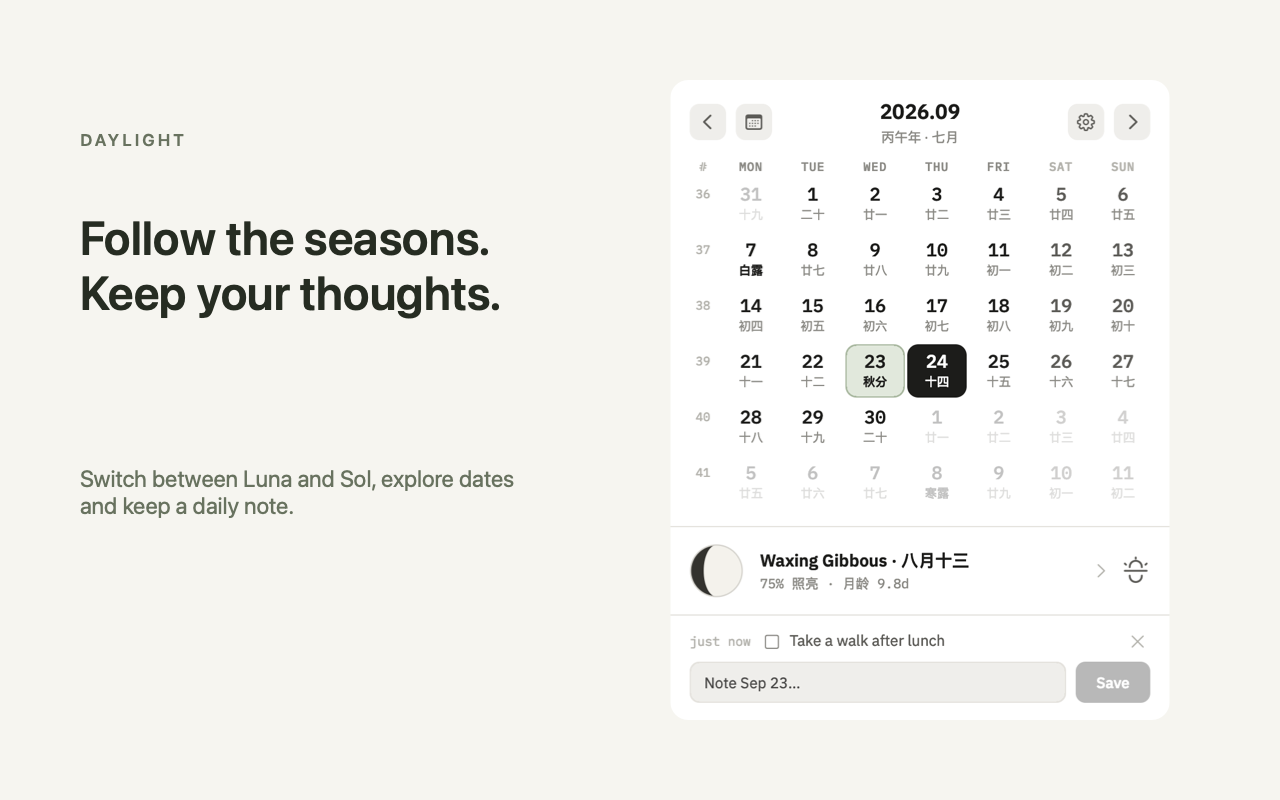
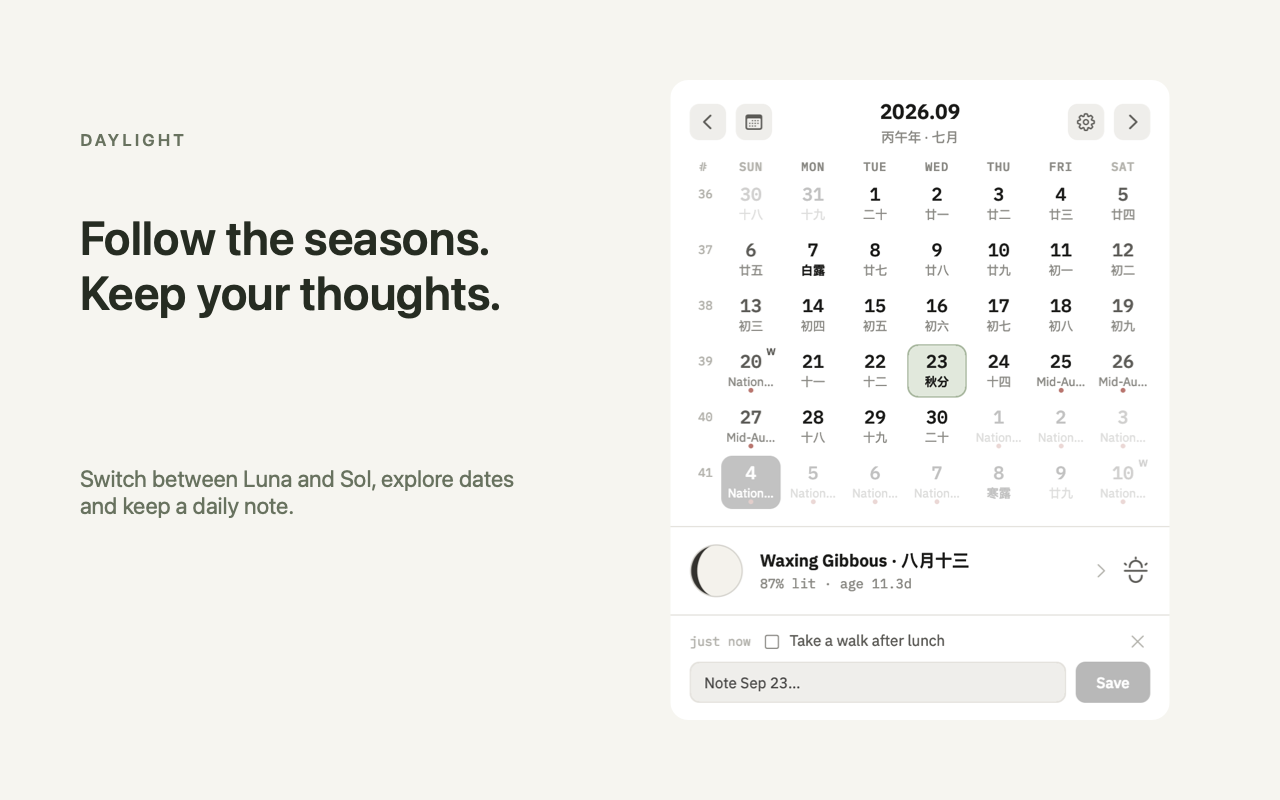
Update privacy policy, store listing and screenshots for review
The privacy policy now states that the 3D moon caches an approximate
location for up to 7 days, how to revoke access, that holiday feeds
refresh daily or weekly after subscribing, and how holidays.mings.work
is hosted. The listing drops the unmatched "reminder" keyword and price
wording, lists Traditional Chinese, and gives reviewers the path to each
permission and network feature. Screenshots are regenerated with the
corrected moon phase and translated holiday names.

diff --git a/apps/site/th/privacy.html b/apps/site/th/privacy.html
@@ -52,7 +52,7 @@
           <h1 class="section__title">Daylight ไม่เก็บข้อมูลของคุณ</h1>
           <p class="section__lead">ไม่มีบัญชีผู้ใช้ ไม่มีการเก็บสถิติ และไม่มีเซิร์ฟเวอร์ของเราที่รับสิ่งที่คุณเขียน หน้านี้ระบุชัดเจนว่าเก็บอะไร ไว้ที่ไหน และอะไรออกจากเครื่องของคุณบ้าง</p>
         </header>
-        <p class="prose__updated">อัปเดตล่าสุด 2026-09-24</p>
+        <p class="prose__updated">อัปเดตล่าสุด 2026-10-04</p>
         <div class="prose">
 <h2>สรุปสั้น ๆ</h2>
 <p>Daylight ไม่เก็บข้อมูลใด ๆ สิ่งที่คุณเขียนจะไม่ถูกส่งมาให้เรา เพราะไม่มีที่ให้ส่ง เราไม่มีเซิร์ฟเวอร์ที่รับข้อมูลผู้ใช้เลย</p>
@@ -60,18 +60,19 @@
 <h2>เก็บอะไร และเก็บไว้ที่ไหน</h2>
 <p>ทุกอย่างที่ Daylight เก็บ อยู่ในเครื่องของคุณเอง หรือในบัญชีเบราว์เซอร์หรือ Apple ของคุณเอง</p>
 <p><strong>ส่วนขยายเบราว์เซอร์</strong> การตั้งค่าของคุณ — ภาษา ธีม ประเภทปฏิทิน การแสดงปฏิทินจันทรคติและเลขสัปดาห์ และปฏิทินวันหยุดที่คุณสมัคร — เก็บผ่านระบบซิงค์ส่วนขยายของเบราว์เซอร์เอง หากคุณเปิดการซิงค์โปรไฟล์ไว้ ค่าเหล่านี้จะตามโปรไฟล์คุณไป ซึ่งเป็นบริการของเบราว์เซอร์ ไม่ผ่านเรา ส่วนเครื่องหมายวันที่ ไดอารี่ และรายการสิ่งที่ต้องทำ เก็บในเครื่องนั้นเท่านั้น และไม่ถูกซิงค์ วันหยุดที่ดาวน์โหลดมาจะถูกแคชไว้ในเครื่องเพื่อให้ใช้งานออฟไลน์ได้</p>
-<p><strong>แอป macOS</strong> การตั้งค่า ไดอารี่ และรายการสิ่งที่ต้องทำ เก็บในที่เก็บข้อมูลของแอปบน Mac ของคุณ หากคุณเปิดการเชื่อมต่อปฏิทินระบบ แอปจะอ่านปฏิทินของคุณผ่าน EventKit ของ Apple เพื่อแสดงกิจกรรม โดยอ่านอย่างเดียว ไม่เขียน ไม่อัปโหลด และไม่คัดลอก หากคุณเปิดดวงจันทร์ 3D ตำแหน่งของคุณจะถูกใช้คำนวณในเครื่องเท่านั้น ไม่อัปโหลดและไม่จัดเก็บ</p>
+<p><strong>แอป macOS</strong> การตั้งค่า ไดอารี่ และรายการสิ่งที่ต้องทำ เก็บในที่เก็บข้อมูลของแอปบน Mac ของคุณ หากคุณเปิดการเชื่อมต่อปฏิทินระบบ แอปจะอ่านปฏิทินของคุณผ่าน EventKit ของ Apple เพื่อแสดงกิจกรรม โดยอ่านอย่างเดียว ไม่เขียน ไม่อัปโหลด และไม่คัดลอก หากคุณเปิดดวงจันทร์ 3D ตำแหน่งของคุณจะถูกใช้คำนวณในเครื่องเท่านั้นและไม่ถูกอัปโหลด แอปจะเก็บตำแหน่งโดยประมาณ (ละเอียดราว 3 กม.) ไว้บน Mac ของคุณนานสูงสุด 7 วัน เพื่อให้เปิดมุมมองได้ทันที และจะลบทิ้งเมื่อคุณปิดสิทธิ์ตำแหน่ง คุณปิดสิทธิ์ปฏิทินหรือตำแหน่งได้ทุกเมื่อใน การตั้งค่าระบบ › ความเป็นส่วนตัวและความปลอดภัย</p>
 
 <h2>อะไรออกจากเครื่องของคุณ</h2>
 <p>ดาวน์โหลดปฏิทินวันหยุดสาธารณะตามภูมิภาคที่คุณสมัครไว้:</p>
 <ul>
 <li><code>holidays.mings.work</code> — ฟีดวันหยุดราชการจีนแผ่นดินใหญ่ของเราเอง</li>
 <li><code>www.1823.gov.hk</code> — ปฏิทินทางการของรัฐบาลเขตบริหารพิเศษฮ่องกง</li>
-<li><code>www.officeholidays.com</code> — วันหยุดราชการไทย</li>
-<li>และที่อยู่ iCal ใด ๆ ที่คุณวางเอง</li>
+<li><code>www.officeholidays.com</code> — วันหยุดราชการไทย (ส่วนขยายเบราว์เซอร์)</li>
+<li>และที่อยู่ปฏิทิน (.ics) ใด ๆ ที่คุณวางเอง</li>
 </ul>
 <p>แอป macOS รุ่นจากเว็บไซต์ยังดาวน์โหลดข้อมูลอัปเดตและตัวติดตั้งจาก <code>daylight.mings.work</code> รุ่น Mac App Store อัปเดตผ่าน Apple และไม่มีตัวอัปเดตของเว็บไซต์ คำขออัปเดตเหล่านี้ไม่อัปโหลดไดอารี่ กิจกรรมในปฏิทินระบบ หรือตำแหน่ง</p>
-<p>ทั้งหมดเป็นการดาวน์โหลดตามปกติ ไม่มีข้อมูลเกี่ยวกับคุณแนบไปด้วย นอกเหนือจากสิ่งที่คำขอเว็บทุกรายการย่อมเปิดเผยต่อปลายทางอยู่แล้ว คือหมายเลข IP และข้อเท็จจริงว่ามีคำขอเกิดขึ้น แหล่งข้อมูลของบุคคลที่สามข้างต้นเครื่องของคุณติดต่อโดยตรง เราไม่เห็นและไม่บันทึกคำขอเหล่านั้น</p>
+<p>จะไม่มีการดาวน์โหลดใด ๆ จนกว่าคุณจะสมัคร หลังจากนั้นแอป macOS จะรีเฟรชปฏิทินที่สมัครไว้วันละครั้งหรือสัปดาห์ละครั้งตามที่คุณเลือกในการตั้งค่า</p>
+<p>ทั้งหมดเป็นการดาวน์โหลดตามปกติ ไม่มีข้อมูลเกี่ยวกับคุณแนบไปด้วย นอกเหนือจากสิ่งที่คำขอเว็บทุกรายการย่อมเปิดเผยต่อปลายทางอยู่แล้ว คือหมายเลข IP และข้อเท็จจริงว่ามีคำขอเกิดขึ้น แหล่งข้อมูลของบุคคลที่สามข้างต้นเครื่องของคุณติดต่อโดยตรง เราไม่เห็นและไม่บันทึกคำขอเหล่านั้น ฟีดของเราเอง <code>holidays.mings.work</code> โฮสต์บน Cloudflare Pages เราไม่ได้เพิ่มการบันทึกใด ๆ ของเราเอง และ Cloudflare จัดการคำขอแต่ละรายการ รวมถึงหมายเลข IP ของคุณ เพื่อส่งไฟล์เท่านั้น</p>
 <p>ปฏิทินจันทรคติ 24 ฤดูกาลจีน และดวงจันทร์ คำนวณในเครื่องของคุณทั้งหมด ไม่มีคำขอเครือข่ายเลย</p>
 
 <h2>สิ่งที่ Daylight ไม่ทำ</h2>

diff --git a/apps/site/privacy.html b/apps/site/privacy.html
@@ -52,7 +52,7 @@
           <h1 class="section__title">Daylight collects nothing</h1>
           <p class="section__lead">There is no account, no analytics, and no server of ours that receives what you write. This page says exactly what is stored, where, and what leaves your device.</p>
         </header>
-        <p class="prose__updated">Last updated 2026-09-24</p>
+        <p class="prose__updated">Last updated 2026-10-04</p>
         <div class="prose">
 <h2>The short version</h2>
 <p>Daylight does not collect anything. Nothing you write in it is sent to us, because there is nowhere for it to be sent — we run no server that receives user data.</p>
@@ -60,18 +60,19 @@
 <h2>What is stored, and where</h2>
 <p>Everything Daylight keeps lives on your own device, or in your own browser or Apple account.</p>
 <p><strong>Browser extension.</strong> Your settings — interface language, colour scheme, calendar type, whether lunar dates and week numbers are shown, and which holiday calendars you subscribed to — are stored with your browser's own extension sync. If you have browser profile sync turned on they follow your profile; that is your browser's service, not ours. Your date marks, diary entries and todos are stored locally on that device only, and are never synced. Downloaded holiday dates are cached locally so the calendar works offline.</p>
-<p><strong>macOS app.</strong> Settings, diary entries and todos are stored in the app's own storage on your Mac. If you turn on system calendar integration, the app reads your calendars through Apple's EventKit to show your events — it only ever reads, and never writes to, uploads, or copies them. If you open the 3D moon view, your location is used on-device to compute where the moon sits in your sky; it is never uploaded or stored.</p>
+<p><strong>macOS app.</strong> Settings, diary entries and todos are stored in the app's own storage on your Mac. If you turn on system calendar integration, the app reads your calendars through Apple's EventKit to show your events — it only ever reads, and never writes to, uploads, or copies them. If you open the 3D moon view, your location is used on-device to compute where the moon sits in your sky and is never uploaded. An approximate position (to about 3 km) is kept on your Mac for up to 7 days so the view opens without waiting, and it is deleted when you turn location access off. You can turn calendar or location access off at any time in System Settings › Privacy &amp; Security.</p>
 
 <h2>What leaves your device</h2>
 <p>Public holiday downloads are made for the regions you subscribe to:</p>
 <ul>
 <li><code>holidays.mings.work</code> — our own feed of mainland China statutory holidays</li>
 <li><code>www.1823.gov.hk</code> — the Hong Kong SAR government's official calendar</li>
-<li><code>www.officeholidays.com</code> — Thailand public holidays</li>
-<li>any iCal address you paste in yourself</li>
+<li><code>www.officeholidays.com</code> — Thailand public holidays (browser extension)</li>
+<li>any calendar (.ics) address you paste in yourself</li>
 </ul>
 <p>The website edition of the macOS app also requests update information and installers from <code>daylight.mings.work</code>. The Mac App Store edition receives updates through Apple and does not include the website updater. These requests do not upload your diary, system calendar events, or location.</p>
-<p>These are ordinary downloads. Nothing about you is included beyond what any web request necessarily reveals to the site being contacted — your IP address, and the fact that a request was made. The third-party sources above are contacted directly by your device; we neither see nor log those requests.</p>
+<p>Nothing is downloaded until you subscribe. After that, the macOS app refreshes your subscribed calendars once a day or once a week, as you choose in its settings.</p>
+<p>These are ordinary downloads. Nothing about you is included beyond what any web request necessarily reveals to the site being contacted — your IP address, and the fact that a request was made. The third-party sources above are contacted directly by your device; we neither see nor log those requests. Our own feed, <code>holidays.mings.work</code>, is hosted on Cloudflare Pages; we add no logging of our own, and Cloudflare handles each request, including your IP address, only to deliver the file.</p>
 <p>Lunar dates, the 24 solar terms and moon phases are computed on your device and involve no network request at all.</p>
 
 <h2>What Daylight does not do</h2>

diff --git a/apps/site/zh/privacy.html b/apps/site/zh/privacy.html
@@ -52,7 +52,7 @@
           <h1 class="section__title">昼间不收集任何数据</h1>
           <p class="section__lead">没有账号，没有埋点，也没有任何属于我们的服务器会收到你写下的内容。这一页说清楚：存了什么、存在哪里、什么会离开你的设备。</p>
         </header>
-        <p class="prose__updated">最后更新 2026-09-24</p>
+        <p class="prose__updated">最后更新 2026-10-04</p>
         <div class="prose">
 <h2>简短版本</h2>
 <p>昼间不收集任何数据。你在里面写下的内容不会被发给我们——因为根本没有可发往的地方，我们没有任何接收用户数据的服务器。</p>
@@ -60,18 +60,19 @@
 <h2>存了什么，存在哪里</h2>
 <p>昼间保存的一切，都留在你自己的设备上，或你自己的浏览器与 Apple 账号里。</p>
 <p><strong>浏览器扩展。</strong>你的设置——界面语言、配色、日历类型、是否显示农历与周数、订阅了哪些节假日日历——保存在浏览器自身的扩展同步区。如果你开启了浏览器的账号同步，它们会跟随你的账号；那是浏览器提供的服务，不经过我们。你的日期标记、日记与待办只保存在本机，从不同步。下载到的节假日日期会缓存在本地，好让日历在离线时也能用。</p>
-<p><strong>macOS 客户端。</strong>设置、日记与待办保存在应用在你 Mac 上的存储中。如果你开启了系统日历集成，应用会通过 Apple 的 EventKit 读取你的日历以显示日程——它只读取，从不写入、上传或复制。如果你打开 3D 月相，你的位置只在本机用于计算月亮在你所在天空中的位置，绝不上传，也不保存。</p>
+<p><strong>macOS 客户端。</strong>设置、日记与待办保存在应用在你 Mac 上的存储中。如果你开启了系统日历集成，应用会通过 Apple 的 EventKit 读取你的日历以显示日程——它只读取，从不写入、上传或复制。如果你打开 3D 月相，你的位置只在本机用于计算月亮在你所在天空中的位置，绝不上传。为了让月相视图无需等待即可打开，应用会在你的 Mac 上保存一个大致位置（精度约 3 公里），最长 7 天；关闭定位权限后即被删除。你可以随时在「系统设置 › 隐私与安全性」中关闭日历或定位权限。</p>
 
 <h2>什么会离开你的设备</h2>
 <p>公共节假日日历会按你订阅的地区下载：</p>
 <ul>
 <li><code>holidays.mings.work</code> —— 我们自己的中国大陆法定节假日源</li>
 <li><code>www.1823.gov.hk</code> —— 香港特别行政区政府的官方日历</li>
-<li><code>www.officeholidays.com</code> —— 泰国公共假日</li>
-<li>以及任何你自己粘贴的 iCal 地址</li>
+<li><code>www.officeholidays.com</code> —— 泰国公共假日（浏览器扩展）</li>
+<li>以及任何你自己粘贴的日历订阅（.ics）地址</li>
 </ul>
 <p>官网下载的 macOS 版还会从 <code>daylight.mings.work</code> 获取更新信息和安装包。Mac App Store 版通过 Apple 更新，不包含官网更新组件。这些请求不会上传日记、系统日程或位置。</p>
-<p>这些都是普通的下载请求。除了任何网络请求都必然会让对方知道的信息——你的 IP 地址，以及发生过这次请求——不包含任何关于你的内容。上面的第三方来源是由你的设备直接访问的，我们既看不到也不记录这些请求。</p>
+<p>在你订阅之前不会下载任何内容。订阅之后，macOS 客户端会按你在设置中的选择，每天或每周刷新一次已订阅的日历。</p>
+<p>这些都是普通的下载请求。除了任何网络请求都必然会让对方知道的信息——你的 IP 地址，以及发生过这次请求——不包含任何关于你的内容。上面的第三方来源是由你的设备直接访问的，我们既看不到也不记录这些请求。我们自己的节假日源 <code>holidays.mings.work</code> 托管在 Cloudflare Pages 上；我们不额外记录任何日志，Cloudflare 处理每个请求（包括你的 IP 地址）仅用于传送文件。</p>
 <p>农历、二十四节气与月相全部在你的设备上计算，完全不产生网络请求。</p>
 
 <h2>昼间不做的事</h2>

diff --git a/apps/site/zh-hant/privacy.html b/apps/site/zh-hant/privacy.html
@@ -52,7 +52,7 @@
           <h1 class="section__title">晝間不收集任何資料</h1>
           <p class="section__lead">沒有帳號，沒有埋點，也沒有任何屬於我們的伺服器會收到你寫下的內容。這一頁說清楚：存了什麼、存在哪裡、什麼會離開你的裝置。</p>
         </header>
-        <p class="prose__updated">最後更新 2026-09-24</p>
+        <p class="prose__updated">最後更新 2026-10-04</p>
         <div class="prose">
 <h2>簡短版本</h2>
 <p>晝間不收集任何資料。你在裡面寫下的內容不會傳給我們——我們沒有接收使用者資料的伺服器。</p>
@@ -60,18 +60,19 @@
 <h2>存了什麼，存在哪裡</h2>
 <p>晝間儲存的一切，都留在你自己的裝置上，或你自己的瀏覽器與 Apple 帳號裡。</p>
 <p><strong>瀏覽器擴充功能。</strong>你的設定——介面語言、配色、日曆類型、是否顯示農曆與週數、訂閱哪些節假日日曆——儲存在瀏覽器的同步儲存空間。如果你開啟了瀏覽器的帳號同步，它們會跟隨你的帳號；那是瀏覽器提供的服務，不經過我們。你的日期標記、日記與待辦只儲存在本機，從不同步。下載到的節假日日期會暫存在本機，讓日曆離線時也能使用。</p>
-<p><strong>macOS 應用程式。</strong>設定、日記與待辦儲存在你的 Mac 上。如果你開啟了系統日曆整合，應用程式會透過 Apple 的 EventKit 讀取日曆以顯示行程；它只讀取，從不寫入、上傳或複製。如果你開啟 3D 月相，你的位置只在本機用於計算月亮在天空中的位置，絕不上傳，也不儲存。</p>
+<p><strong>macOS 應用程式。</strong>設定、日記與待辦儲存在你的 Mac 上。如果你開啟了系統日曆整合，應用程式會透過 Apple 的 EventKit 讀取日曆以顯示行程；它只讀取，從不寫入、上傳或複製。如果你開啟 3D 月相，你的位置只在本機用於計算月亮在天空中的位置，絕不上傳。為了讓月相視圖無需等待即可開啟，應用程式會在你的 Mac 上保存一個大致位置（精度約 3 公里），最長 7 天；關閉定位權限後即被刪除。你可以隨時在「系統設定 › 隱私權與安全性」中關閉日曆或定位權限。</p>
 
 <h2>什麼會離開你的裝置</h2>
 <p>公共節假日日曆會按你訂閱的地區下載：</p>
 <ul>
 <li><code>holidays.mings.work</code> —— 我們自己的中國大陸法定節假日源</li>
 <li><code>www.1823.gov.hk</code> —— 香港特別行政區政府的官方日曆</li>
-<li><code>www.officeholidays.com</code> —— 泰國公共假日</li>
-<li>以及任何你自行貼上的 iCal 網址</li>
+<li><code>www.officeholidays.com</code> —— 泰國公共假日（瀏覽器擴充功能）</li>
+<li>以及任何你自行貼上的日曆訂閱（.ics）網址</li>
 </ul>
 <p>網站下載的 macOS 版還會從 <code>daylight.mings.work</code> 取得更新資訊和安裝檔。Mac App Store 版透過 Apple 更新，不包含網站更新元件。這些請求不會上傳日記、系統行程或位置。</p>
-<p>這些都是普通的下載請求。除了任何網路請求都必然會讓對方知道的資訊——你的 IP 地址，以及發生過這次請求——不包含任何關於你的內容。上面的第三方來源是由你的裝置直接訪問的，我們既看不到也不記錄這些請求。</p>
+<p>在你訂閱之前不會下載任何內容。訂閱之後，macOS 應用程式會依你在設定中的選擇，每天或每週重新整理一次已訂閱的日曆。</p>
+<p>這些都是普通的下載請求。除了任何網路請求都必然會讓對方知道的資訊——你的 IP 地址，以及發生過這次請求——不包含任何關於你的內容。上面的第三方來源是由你的裝置直接訪問的，我們既看不到也不記錄這些請求。我們自己的節假日源 <code>holidays.mings.work</code> 託管在 Cloudflare Pages 上；我們不額外記錄任何日誌，Cloudflare 處理每個請求（包括你的 IP 地址）僅用於傳送檔案。</p>
 <p>農曆、二十四節氣與月相全部在你的裝置上計算，完全不產生網路請求。</p>
 
 <h2>晝間不做的事</h2>

diff --git a/apps/site/th/index.html b/apps/site/th/index.html
@@ -72,7 +72,7 @@
               <span class="hero__clock">พฤ. 24 ก.ย.</span>
             </div>
             <div class="hero__popover">
-              <img class="hero__screenshot" src="/images/calendar-th.png" alt="Daylight 2.0.3 ปฏิทิน Luna พร้อมวันที่จันทรคติ วันหยุด วันทำงานชดเชย ข้างขึ้นข้างแรม ไอคอนฤดูกาล และบันทึกประจำวัน" width="300" fetchpriority="high">
+              <img class="hero__screenshot" src="/images/calendar-th.png" alt="Daylight 2.0.5 ปฏิทิน Luna พร้อมวันที่จันทรคติ วันหยุด วันทำงานชดเชย ข้างขึ้นข้างแรม ไอคอนฤดูกาล และบันทึกประจำวัน" width="300" fetchpriority="high">
             </div>
           </div>
         </div>
@@ -89,7 +89,7 @@
 
         <div class="cards cards--two">
           <article class="card">
-            <span class="card__badge">v2.0.3 · macOS 13+</span>
+            <span class="card__badge">v2.0.5 · macOS 13+</span>
             <h3 class="card__title">แอปแถบเมนู macOS</h3>
             <p class="card__text">คลิกไอคอนบนแถบเมนูเพื่อดูวันที่และกิจกรรมที่กำลังจะมาถึง ดูปฏิทินที่ใช้อยู่บน Mac เช่น iCloud, Google และ Exchange แล้วคลิกกิจกรรมเพื่อเปิดในแอปปฏิทิน</p>
             <ul class="card__list">
@@ -185,7 +185,7 @@
         <header class="section__head">
           <p class="section__eyebrow">Get Daylight</p>
           <h2 class="section__title">ดาวน์โหลด Daylight</h2>
-          <p class="section__lead">ใช้งานฟรีบน Mac, Chrome และ Edge ดาวน์โหลด Daylight 2.0.3 สำหรับ macOS ได้ด้านล่าง</p>
+          <p class="section__lead">ใช้งานฟรีบน Mac, Chrome และ Edge ดาวน์โหลด Daylight 2.0.5 สำหรับ macOS ได้ด้านล่าง</p>
         </header>
 
         <div class="cards cards--two">
@@ -200,7 +200,7 @@
 
           <article class="card">
             <h3 class="card__title">แอปแถบเมนู macOS</h3>
-            <p class="card__text">เวอร์ชัน 2.0.3 · macOS 13 ขึ้นไป · รองรับ Apple silicon และ Intel ลงนามและผ่านการรับรองโดย Apple พร้อมอัปเดตอัตโนมัติ</p>
+            <p class="card__text">เวอร์ชัน 2.0.5 · macOS 13 ขึ้นไป · รองรับ Apple silicon และ Intel ลงนามและผ่านการรับรองโดย Apple พร้อมอัปเดตอัตโนมัติ</p>
             <div class="card__actions">
               <a class="btn btn--primary" id="mac-download" href="https://daylight.mings.work/daylight-macos.dmg">ดาวน์โหลด macOS</a>
             </div>

diff --git a/apps/site/zh-hant/index.html b/apps/site/zh-hant/index.html
@@ -72,7 +72,7 @@
               <span class="hero__clock">9月24日 週四</span>
             </div>
             <div class="hero__popover">
-              <img class="hero__screenshot" src="/images/calendar-zh-hant.png" alt="晝間 2.0.3：Luna 日曆中的農曆、節假日、調休標記、月相、節氣圖示和每日隨記。" width="300" fetchpriority="high">
+              <img class="hero__screenshot" src="/images/calendar-zh-hant.png" alt="晝間 2.0.5：Luna 日曆中的農曆、節假日、調休標記、月相、節氣圖示和每日隨記。" width="300" fetchpriority="high">
             </div>
           </div>
         </div>
@@ -89,7 +89,7 @@
 
         <div class="cards cards--two">
           <article class="card">
-            <span class="card__badge">v2.0.3 · macOS 13+</span>
+            <span class="card__badge">v2.0.5 · macOS 13+</span>
             <h3 class="card__title">macOS 選單列應用程式</h3>
             <p class="card__text">點選選單列圖示，就能查看日期和接下來的安排。支援查看 Mac 日曆中已有的 iCloud、Google、Exchange 等行程，點選即可在系統日曆中打開。</p>
             <ul class="card__list">
@@ -185,7 +185,7 @@
         <header class="section__head">
           <p class="section__eyebrow">Get Daylight</p>
           <h2 class="section__title">獲取晝間</h2>
-          <p class="section__lead">Mac、Chrome 與 Edge 均可免費使用。下方可下載 macOS 2.0.3 新版。</p>
+          <p class="section__lead">Mac、Chrome 與 Edge 均可免費使用。下方可下載 macOS 2.0.5 新版。</p>
         </header>
 
         <div class="cards cards--two">
@@ -200,7 +200,7 @@
 
           <article class="card">
             <h3 class="card__title">macOS 選單列應用程式</h3>
-            <p class="card__text">2.0.3 版 · 需要 macOS 13 或更高版本 · 支援 Apple 晶片與 Intel。已簽名並透過 Apple 公證，支援自動更新。</p>
+            <p class="card__text">2.0.5 版 · 需要 macOS 13 或更高版本 · 支援 Apple 晶片與 Intel。已簽名並透過 Apple 公證，支援自動更新。</p>
             <div class="card__actions">
               <a class="btn btn--primary" id="mac-download" href="https://daylight.mings.work/daylight-macos.dmg">下載 macOS 版</a>
             </div>

diff --git a/apps/site/zh/index.html b/apps/site/zh/index.html
@@ -72,7 +72,7 @@
               <span class="hero__clock">9月24日 周四</span>
             </div>
             <div class="hero__popover">
-              <img class="hero__screenshot" src="/images/calendar-zh.png" alt="昼间 2.0.3：Luna 日历中的农历、节假日、调休标记、月相、节气图标和每日随记。" width="300" fetchpriority="high">
+              <img class="hero__screenshot" src="/images/calendar-zh.png" alt="昼间 2.0.5：Luna 日历中的农历、节假日、调休标记、月相、节气图标和每日随记。" width="300" fetchpriority="high">
             </div>
           </div>
         </div>
@@ -89,7 +89,7 @@
 
         <div class="cards cards--two">
           <article class="card">
-            <span class="card__badge">v2.0.3 · macOS 13+</span>
+            <span class="card__badge">v2.0.5 · macOS 13+</span>
             <h3 class="card__title">macOS 菜单栏客户端</h3>
             <p class="card__text">点击菜单栏图标，就能查看日期和接下来的安排。支持查看 Mac 日历中已有的 iCloud、Google、Exchange 等日程，点击即可在系统日历中打开。</p>
             <ul class="card__list">
@@ -185,7 +185,7 @@
         <header class="section__head">
           <p class="section__eyebrow">Get Daylight</p>
           <h2 class="section__title">获取昼间</h2>
-          <p class="section__lead">Mac、Chrome 与 Edge 均可免费使用。下方可下载 macOS 2.0.3 新版。</p>
+          <p class="section__lead">Mac、Chrome 与 Edge 均可免费使用。下方可下载 macOS 2.0.5 新版。</p>
         </header>
 
         <div class="cards cards--two">
@@ -200,7 +200,7 @@
 
           <article class="card">
             <h3 class="card__title">macOS 菜单栏客户端</h3>
-            <p class="card__text">2.0.3 版 · 需要 macOS 13 或更高版本 · 支持 Apple 芯片与 Intel。已签名并通过 Apple 公证，支持自动更新。</p>
+            <p class="card__text">2.0.5 版 · 需要 macOS 13 或更高版本 · 支持 Apple 芯片与 Intel。已签名并通过 Apple 公证，支持自动更新。</p>
             <div class="card__actions">
               <a class="btn btn--primary" id="mac-download" href="https://daylight.mings.work/daylight-macos.dmg">下载 macOS 版</a>
             </div>

diff --git a/apps/site/index.html b/apps/site/index.html
@@ -72,7 +72,7 @@
               <span class="hero__clock">Thu Sep 24</span>
             </div>
             <div class="hero__popover">
-              <img class="hero__screenshot" src="/images/calendar-en.png" alt="Daylight 2.0.3: Luna calendar with lunar dates, holidays, adjusted workdays, moon phase, solar-term artwork, and a daily note." width="300" fetchpriority="high">
+              <img class="hero__screenshot" src="/images/calendar-en.png" alt="Daylight 2.0.5: Luna calendar with lunar dates, holidays, adjusted workdays, moon phase, solar-term artwork, and a daily note." width="300" fetchpriority="high">
             </div>
           </div>
         </div>
@@ -89,7 +89,7 @@
 
         <div class="cards cards--two">
           <article class="card">
-            <span class="card__badge">v2.0.3 · macOS 13+</span>
+            <span class="card__badge">v2.0.5 · macOS 13+</span>
             <h3 class="card__title">macOS menu bar app</h3>
             <p class="card__text">Click the menu bar icon to check dates and upcoming events. See calendars you already use on your Mac, including iCloud, Google, and Exchange. Click an event to open it in Calendar.</p>
             <ul class="card__list">
@@ -185,7 +185,7 @@
         <header class="section__head">
           <p class="section__eyebrow">Get Daylight</p>
           <h2 class="section__title">Get Daylight</h2>
-          <p class="section__lead">Free for Mac, Chrome, and Edge. Download Daylight 2.0.3 for macOS below.</p>
+          <p class="section__lead">Free for Mac, Chrome, and Edge. Download Daylight 2.0.5 for macOS below.</p>
         </header>
 
         <div class="cards cards--two">
@@ -200,7 +200,7 @@
 
           <article class="card">
             <h3 class="card__title">macOS menu bar app</h3>
-            <p class="card__text">Version 2.0.3 · macOS 13 or later · Apple silicon and Intel. Signed and notarized, with automatic updates.</p>
+            <p class="card__text">Version 2.0.5 · macOS 13 or later · Apple silicon and Intel. Signed and notarized, with automatic updates.</p>
             <div class="card__actions">
               <a class="btn btn--primary" id="mac-download" href="https://daylight.mings.work/daylight-macos.dmg">Download for macOS</a>
             </div>
